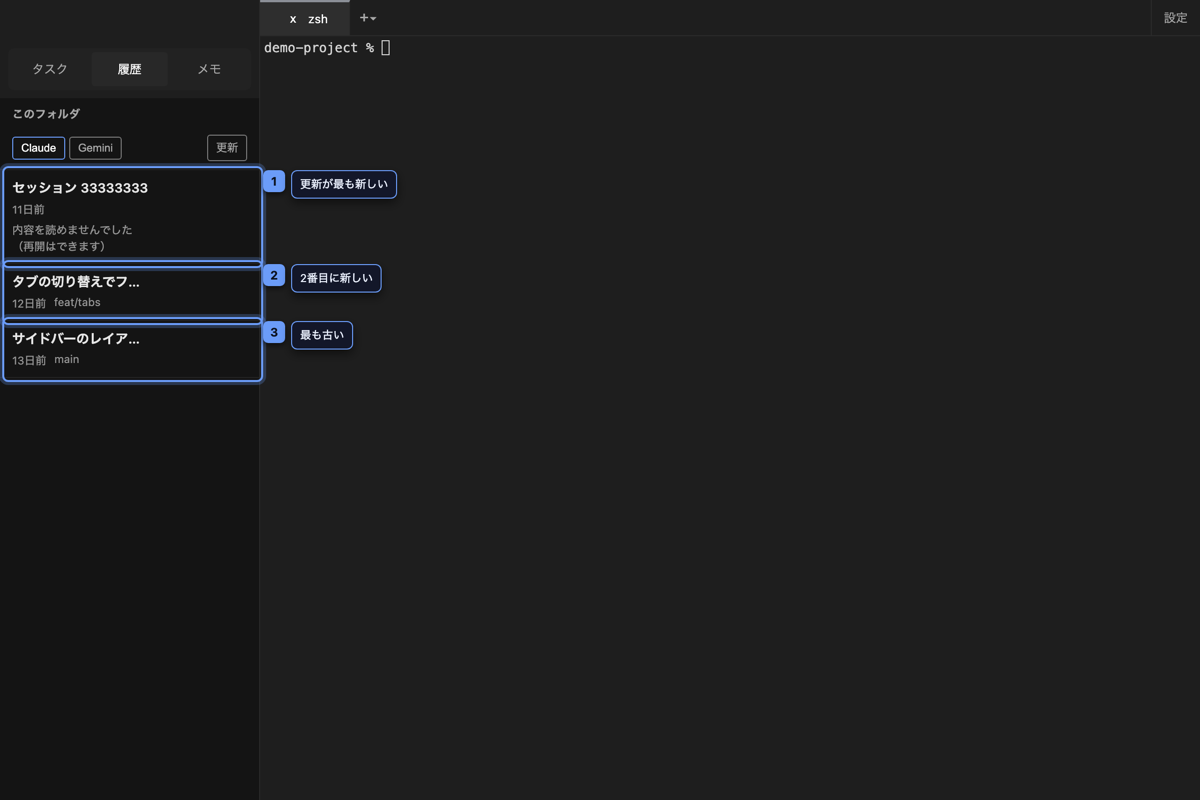
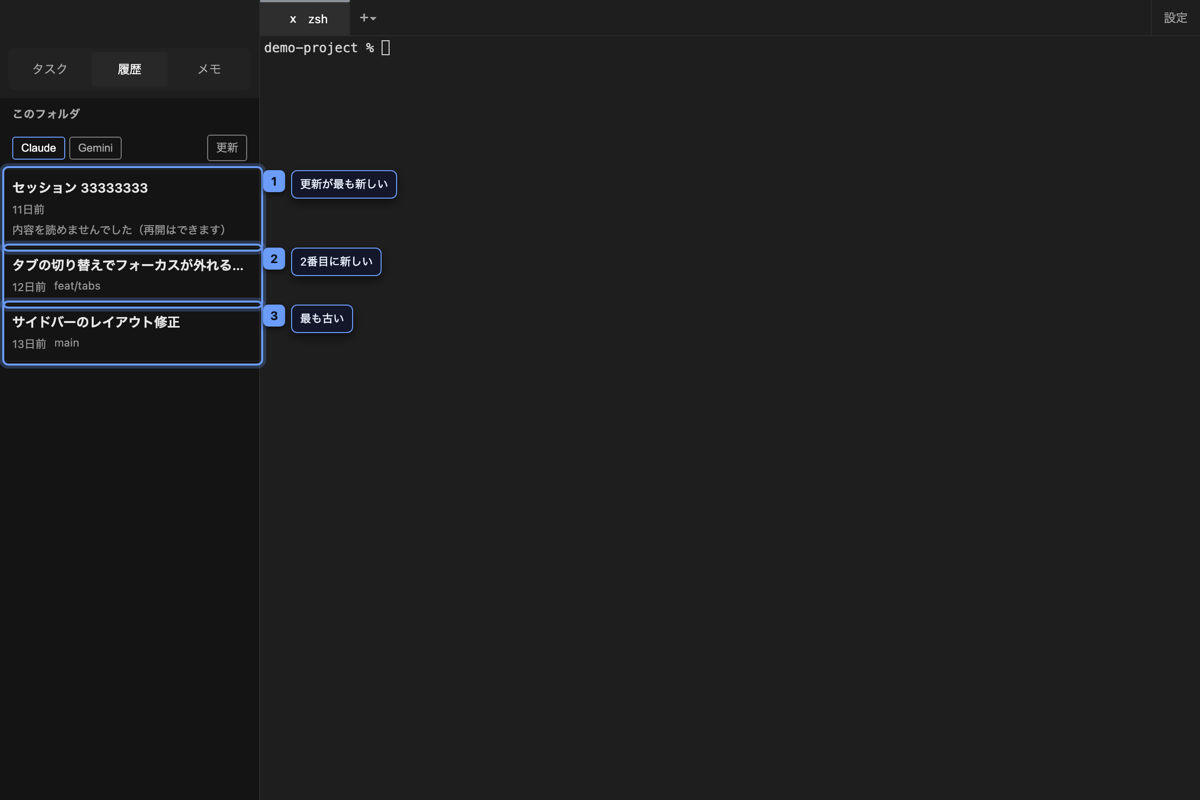
fix(sidebar): 履歴行が常時予約していた 96px を返し、行の実効幅を 139px から 235px にする
Issue #119（P1）の周2。

`.history-item__action`（メモ / 編集）は `opacity: 0` で隠されていたが、
**`opacity` はレイアウトから要素を外さない**ため、88px + gap 8px = 96px が
常時予約されたままだった。styles.css のコメント自身が「常時表示すると
タイトルの表示幅を食うため、普段は透明にしておく」と書いていたが、
`opacity` ではその意図が達成できていなかった。

実測で `.history-item__row` の実効幅は **139px**。サイドバーの内寸 235px に対し、
**見えていないボタンが 41% を予約していた。**

## 変更

- `.history-item__actions` を `position: absolute` にしてフレックスの行から外した
  （実効幅 139px -> **235px**。`e2e/specs/S74` が実測で固定）
- `opacity` / `pointer-events` をボタン個々ではなく入れ物側へ移した。
  ボタンは絶対配置でタイトルの上に重なるので、`background: transparent` の
  ままだと下の文字が透ける。入れ物に行と同じ塗りを敷いたが、opacity を
  個々に置いたままだと隠れているあいだも塗りだけが残る
- **`pointer-events: none` は必須。** `opacity: 0` はポインタイベントを止めないので、
  これが無いとタイトルの右端のクリックが resume ではなく「編集」に当たる
  （S74 が「9点中5点が届かない」で赤くなることを周1 で確認済み）
- `visibility: hidden` は採らない。フォーカスを受けられなくなり `:focus-within` が
  発火できず、キーボードからメモ機能への唯一の入口が消える
- `.history-item__meta` に `min-width: 0`、子の span に `text-overflow: ellipsis`。
  日本語は文字間で改行できるため、幅が足りないと `demo-` / `project` のように
  **単語の途中で割れて**行の高さが伸びていた（PR 13-a' が実際に踏んだ）
- `.history-item__actions::before` に 16px のフェード。agent-browser で実機を
  見たところ、長いタイトルが省略記号も無しに不透明な矩形で断ち切られ、
  「タイトルがそこで終わっている」ように読めた

## これは PR #108 とは別物

#108（タブの閉じるボタン）は `.tab-bar__tab-button` に `padding-left` を与えて
**幅を予約したまま**当たり判定だけ直したので描画位置が1px も動かなかった。
ここは幅を回収するのが目的なので、**`.history-item__title` の省略位置は動く。**
S16 / S18 / S19 を撮り直した（解析エラーが2行 -> 1行に収まり、
「タブの切り替えでフ...」が「タブの切り替えでフォーカスが外れる...」になった）。

## 撮り直した画像は3枚だけ
[…]

Changed region(s): [[0.0, 0.2812, 0.3083, 0.5]]

diff --git a/src/renderer/src/styles.css b/src/renderer/src/styles.css
@@ -1532,13 +1532,22 @@ button.task-item__row:hover {
   color: var(--text-bright);
 }
 
+/* `position: relative` は `.history-item__actions` の絶対配置の基準
+   （Issue #119 周2。下のコメント参照）。 */
 .history-item {
+  position: relative;
   padding: var(--sp-2) var(--sp-3);
   border-bottom: 1px solid var(--border-row);
   font-size: var(--fs-sm);
 }
 
-.history-item:hover {
+/* `:focus-within` を足したのは Issue #119 周2。「メモ」「編集」は絶対配置で
+   タイトルの上に重なるため、出ているあいだは下の文字が透けないよう
+   `.history-item__actions` に行と同じ塗りを敷く（下記）。ホバーせずに
+   キーボードだけで到達したときも同じ塗りになっていないと、
+   ボタンの背後にだけ色の違う矩形が出て継ぎ目が見える。 */
+.history-item:hover,
+.history-item:focus-within {
   background: var(--surface-2);
 }
 
@@ -1582,15 +1591,79 @@ button.task-item__row:hover {
   white-space: nowrap;
 }
 
-/* resume 用ボタンの兄弟。<button> に入れ子にできないためここに独立して置く。 */
+/* resume 用ボタンの兄弟。<button> に入れ子にできないためここに独立して置く。
+ *
+ * **Issue #119 周2: フレックスの行から外した。**
+ *
+ * 以前はここが `.history-item__content` のフレックス行に普通に並ぶアイテムで、
+ * 中のボタンを `opacity: 0` で隠していた。**`opacity` はレイアウトから要素を
+ * 外さない**ので、88px + gap 8px = 96px が常時予約されたままだった
+ * （実測: `.history-item__row` の実効幅は 260px のサイドバーに対し **139px**）。
+ * 旧コメントは「常時表示するとタイトルの表示幅を食うため、普段は透明にしておく」と
+ * 書いていたが、**`opacity` ではその意図は達成できていない。**
+ *
+ * 絶対配置にして 96px を返した。`top` / `right` は従来のフロー上の位置と
+ * 同じ（`.history-item` の padding が `var(--sp-2) var(--sp-3)`）。
+ *
+ * **これは PR #108（タブの閉じるボタン）とは別物。** あちらは
+ * `.tab-bar__tab-button` に `padding-left` を与えて**幅を予約したまま**
+ * 当たり判定だけ直したので、描画位置が1px も動かなかった。ここは幅を回収するのが
+ * 目的なので、**`.history-item__title` の省略位置は動く**（S16 / S18 / S19 を撮り直した）。
+ *
+ * `opacity` / `pointer-events` をボタン個々ではなくこの入れ物に持たせたのは、
+ * 下の `background` を一緒にフェードさせるため。個々のボタンに置くと、
+ * 隠れているあいだも入れ物の塗りだけが行の上に残る。
+ *
+ * 編集中（`.history-item__title-input` を出す分岐）は `.history-item__actions`
+ * 自体がレンダリングされないので、絶対配置が入力欄に重なることはない。 */
 .history-item__actions {
+  position: absolute;
+  top: var(--sp-2);
+  right: var(--sp-3);
   display: flex;
   gap: var(--sp-2);
   flex-shrink: 0;
+  /* 出ているあいだはタイトルの上に重なる。ボタン自身は `background: transparent`
+     なので、この塗りが無いと下のタイトル文字が透けて読めなくなる。値は
+     `.history-item:hover` / `:focus-within` の行の塗りと同じにして継ぎ目を消す。 */
+  background: var(--surface-2);
+  padding-left: var(--sp-2);
+  opacity: 0;
+  /* **`opacity: 0` はポインタイベントを止めない。** これが無いと、絶対配置に
+     したことでタイトルの右端のクリックが resume ではなく「編集」に当たる。
+     `.tab-bar__close` が同じ失敗モードを同じ手で潰している。
+     e2e/specs/S74-history-row-hit-area.spec.ts が、この1行を外すと
+     「タイトル上の9点中5点が resume に届かない」で赤くなる。 */
+  pointer-events: none;
 }
 
-/* 行のホバー時だけ出す操作ボタン（メモ / 編集）。
-   常時表示するとタイトルの表示幅を食うため、普段は透明にしておく。 */
+/* 塗りの左端に短いフェードを掛ける。これが無いと、長いタイトルが省略記号も無しに
+   不透明な矩形で断ち切られ、「タイトルがそこで終わっている」ように読める
+   （`.history-item__title` の `text-overflow` は 235px の位置で効くので、
+   その手前を覆っているあいだは省略記号が出ない）。
+   `pointer-events: none` にしているのは、この帯がタイトルのクリックを奪わないため。 */
+.history-item__actions::before {
+  content: '';
+  position: absolute;
+  top: 0;
+  bottom: 0;
+  left: calc(-1 * var(--sp-4));
+  width: var(--sp-4);
+  background: linear-gradient(to right, transparent, var(--surface-2));
+  pointer-events: none;
+}
+
+/* `:focus-within` にしているのは、`opacity: 0` の要素は**フォーカスを受けられる**から
+   （`visibility: hidden` に変えるとフォーカス不能になり、`:focus-within` が
+   発火できず、キーボードからメモ機能への唯一の入口が消える）。 */
+.history-item:hover .history-item__actions,
+.history-item__actions:focus-within {
+  opacity: 1;
+  pointer-events: auto;
+}
+
+/* 行のホバー / フォーカス時だけ出す操作ボタン（メモ / 編集）。
+   隠す・出すの制御は入れ物（`.history-item__actions`）側が持つ。 */
 .history-item__action {
   flex-shrink: 0;
   background: transparent;
@@ -1601,12 +1674,6 @@ button.task-item__row:hover {
   padding: var(--sp-1) var(--sp-2);
   border-radius: var(--radius-md);
   cursor: pointer;
-  opacity: 0;
-}
-
-.history-item:hover .history-item__action,
-.history-item__action:focus {
-  opacity: 1;
 }
 
 .history-item__title-input {
@@ -1626,12 +1693,36 @@ button.task-item__row:hover {
   outline: none;
 }
 
+/* `min-width: 0` と子の切り詰め規則は Issue #119 周2。
+ *
+ * ここには `white-space` も `text-overflow` も `min-width` も無く、**日本語は
+ * 文字間で改行できる**ため、幅が足りないと `demo-` / `project`、`10日` / `前` の
+ * ように**単語の途中で割れて**行の高さが伸びていた。PR 13-a' で
+ * 「すべてのフォルダのとき meta にフォルダ名を出す」を試して実際にこれを踏み、
+ * その案を取り下げている（#20 の提案 B も同じ理由で取り下げ）。
+ *
+ * フレックスの子は既定で `min-width: auto` なので、`min-width: 0` が無いと
+ * `text-overflow` を書いても縮まない。 */
 .history-item__meta {
   display: flex;
   gap: var(--sp-2);
+  min-width: 0;
   color: var(--text-tertiary);
   font-size: var(--fs-xs);
   margin-top: var(--sp-1);
+}
+
+.history-item__meta > span {
+  min-width: 0;
+  overflow: hidden;
+  text-overflow: ellipsis;
+  white-space: nowrap;
+}
+
+/* 相対時刻（1つ目）は短く、欠けると「いつのセッションか」が分からなくなるので
+   縮めない。溢れたときに削るのはブランチ名（と、周3 で足すフォルダ名）のほう。 */
+.history-item__meta > span:first-child {
+  flex-shrink: 0;
 }
 
 /* Issue #20 I-3: 解析エラーは打つ手が無い情報なので、赤字（--status-error）ではなく

diff --git a/.claude/workspace/issue-119/worklog.md b/.claude/workspace/issue-119/worklog.md
@@ -105,3 +105,73 @@
 5. `.history-item__meta` は `.history-item__row` の**内側**にある（実測で確認）。
    幅を回復すれば meta も一緒に広がるので、B-4（フォルダ名を出す）の前提は
    周2 だけで揃う
+
+---
+
+## 2026-08-03 - 周2: 履歴行の幅を回復する
+
+### 実施内容
+
+- `.history-item__actions` を `position: absolute` にしてフレックスの行から外した。
+  **`.history-item__row` の実効幅が 139px -> 235px に回復**（S74 で実測）
+- `.history-item__action` の `opacity` / `pointer-events` を**入れ物側へ移した**
+  （`.history-item__actions` に `opacity: 0; pointer-events: none`、
+  `.history-item:hover` と `:focus-within` で `1` / `auto`）
+- `.history-item__meta` に `min-width: 0`、子の `<span>` に
+  `overflow: hidden; text-overflow: ellipsis; white-space: nowrap` を入れた。
+  1つ目（相対時刻）だけ `flex-shrink: 0`
+- `.history-item:focus-within` にも行の塗りを当てた
+- `.history-item__actions::before` に 16px のフェードを足した
+- S74 の characterization を 139/88 -> 235/96 に更新
+- `docs/images/` の S16 / S18 / S19 を撮り直した
+
+### 設計判断
+
+- **`opacity` を個々のボタンではなく入れ物に持たせた。** ボタンは絶対配置で
+  タイトルの上に重なるので、`background: transparent` のままだと下の文字が
+  透けて読めなくなる。入れ物に `--surface-2`（行のホバーと同じ塗り）を敷いたが、
+  **opacity を個々のボタンに置いたままだと、隠れているあいだも入れ物の塗りだけが
+  行の上に残る。** 入れ物側へ移すことで塗りも一緒にフェードする
+- **`visibility: hidden` ではなく `opacity: 0` + `pointer-events: none`。**
+  `visibility: hidden` の要素はフォーカスを受けられないので `:focus-within` が
+  発火できず、キーボードからメモ機能への唯一の入口が消える（レビュアー2人が
+  この点を見落としていた。`architecture.md` の 4.2）
+- **`.history-item:focus-within` にも行の塗りを当てた。** ホバーせずに
+  キーボードだけで到達したとき、入れ物の塗りだけが行と違う色になって
+  継ぎ目が見えるのを防ぐ
+- **左端に 16px のフェードを足した。** agent-browser で実機を見たところ、
+  長いタイトルが**省略記号も無しに不透明な矩形で断ち切られ**、
+  「タイトルがそこで終わっている」ように読めた（`text-overflow` は 235px の
+  位置で効くので、その手前を覆っているあいだは省略記号が出ない）。
+  フェードにすると「文字がボタンの下へ続いている」と読める
+
+### 教訓
+
+- **撮り直した13枚のうち、今回の変更が理由なのは3枚だけだった。** 残り8枚は
+  撮影レーンの非決定性（経過時間・ランダム UUID・空状態が写る）。
+  `known-issues.md` の 8 に記録した。**RGB で画素差を測って1枚ずつ判定し、
+  説明できないものは `git checkout HEAD --` で戻す**運用で守った
+  （`.convert('RGBA')` を挟むと Pillow の `getbbox()` が誤判定するので必ず RGB）
+- **agent-browser で実機を見て初めて分かったことがある。** E2E と
+  スクリーンショットはどちらもホバーしていない状態しか撮らないので、
+  「ボタンが出ているあいだタイトルがどう見えるか」を1本も見ていなかった。
+  断ち切られた見た目は自動検査では絶対に見つからない
+- **S74 が予測どおりに機能した。** 周1 で「`pointer-events` を省くと9点中5点が
+  resume に届かなくなる」ことを確認してあったので、周2 では入れ忘れがないことを
+  green で確認するだけで済んだ
+
+### 次に再開するとき最初に読むべきこと
+
+1. **次のアクションは周3（B: スコープ行 + C の結論）。** `overview.md` の「周3」が正
+2. **周3 では最初に `.panel-heading` への畳み込みをやる**（周1 から移した）。
+   `test/unit/css-tokens.test.ts` の「サイドバーの見出し2種の宣言が完全に一致している」が
+   畳める前提を保証している。**`make css-substitution-check` はこの変更では
+   必ず FAIL する**（セレクタをまとめると宣言の出現回数が減るため）。
+   落ちた出力を根拠として残すこと
+3. **`.memo-panel__heading` は畳む対象に含めない**（`color` と `margin` が別物。
+   単体テストが固定している）
+4. 周3 の B-4（履歴 meta にフォルダ名）の前提は周2 で揃った。
+   `.history-item__meta > span` は既に ellipsis を持ち、1つ目（相対時刻）だけ
+   `flex-shrink: 0` なので、**フォルダ名を足すならその後ろに置けば削られるのは
+   フォルダ名とブランチ名になる**
+5. **画像は毎回 RGB で1枚ずつ判定すること**（`known-issues.md` の 8）

diff --git a/.claude/workspace/issue-119/known-issues.md b/.claude/workspace/issue-119/known-issues.md
@@ -226,3 +226,45 @@ P2
 ### ステータス
 
 未対処（この Issue の周5 で対処する）
+
+---
+
+## 8. `make e2e-screenshots` は毎回違う画像を生成する（非決定性が3種類ある）
+
+### 症状
+
+周2 で撮り直したあと、`docs/images/` の13枚のうち **11枚に画素差が出た**。
+追跡した結果、**そのうち8枚は今回の変更とは無関係**で、撮影レーンの非決定性だった。
+
+| 非決定性 | 実例 | 影響する画像 |
+|---|---|---|
+| **タスク一覧の経過時間** | `109時間9分` -> `172時間52分`。偽 CLI の `agents.json` は `startedAt` が固定なので、**撮るたびに増え続ける** | S01 / S03 / S04 / S06 / S12 / S22 / S09 / S56 |
+| **セッション UUID がランダム** | `--session-id 8f394c96-...` -> `640a566e-...`。ターミナルに `ARGS:` として出る | S09 / S56 |
+| **空状態が写ることがある** | S01 の再撮影で、タスク一覧ではなく「動いている AI はまだありません / Claude を起動」が写った。ポーリングが間に合わなかったと思われる | 全部 |
+
+### 影響範囲
+
+- **#121（P3）の B-2 が挙げている案2「`make e2e-screenshots` を回して、
+  生成された画像がコミット済みのものと差分ゼロであることを検査する」は、
+  この非決定性がある限り成立しない。** しきい値付きの画像比較でも、
+  経過時間の桁が変われば文字幅が変わるので吸収できない
+- **#120（P2）の D-2（動的フィクスチャ）と根が同じ。** 固定 `agents.json` の
+  `startedAt` を「撮影時刻からの相対」にすれば、経過時間の非決定性は消せる
+- 撮り直しのたびに「この画面にこの変更が波及するはずがあるか」を人が1枚ずつ
+  判定しないと、**無関係な差分が混ざったままコミットされる**
+
+### 対処方針
+
+- [ ] **この Issue では対処しない。** #120 の D-2 と #121 の B-2 の担当
+- [ ] この Issue の各周では、**RGB で画素差を測り、説明できない差分の画像は
+      `git checkout HEAD --` で戻す**という運用で守る（周2 で実施）
+- [ ] 経過時間の非決定性は、偽 CLI の `startedAt` を撮影時刻からの相対にすれば
+      消せる見込み。#120 の D-2 で動的フィクスチャを入れるときに一緒に直す
+
+### 優先度
+
+P2
+
+### ステータス
+
+未対処（#120 / #121 へ委譲。この Issue では運用で回避）
